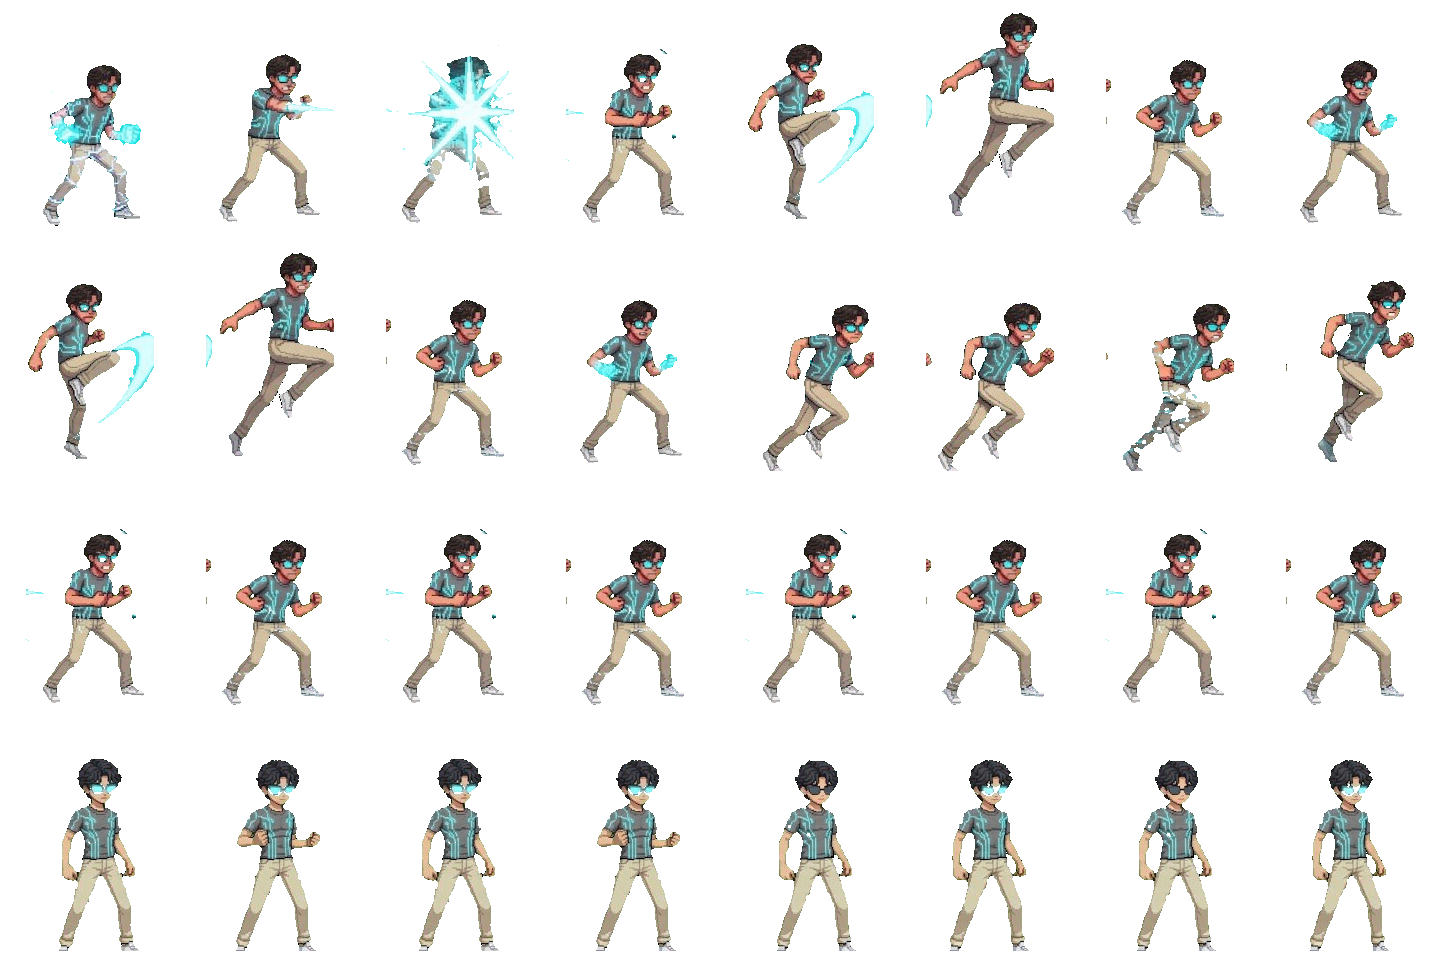
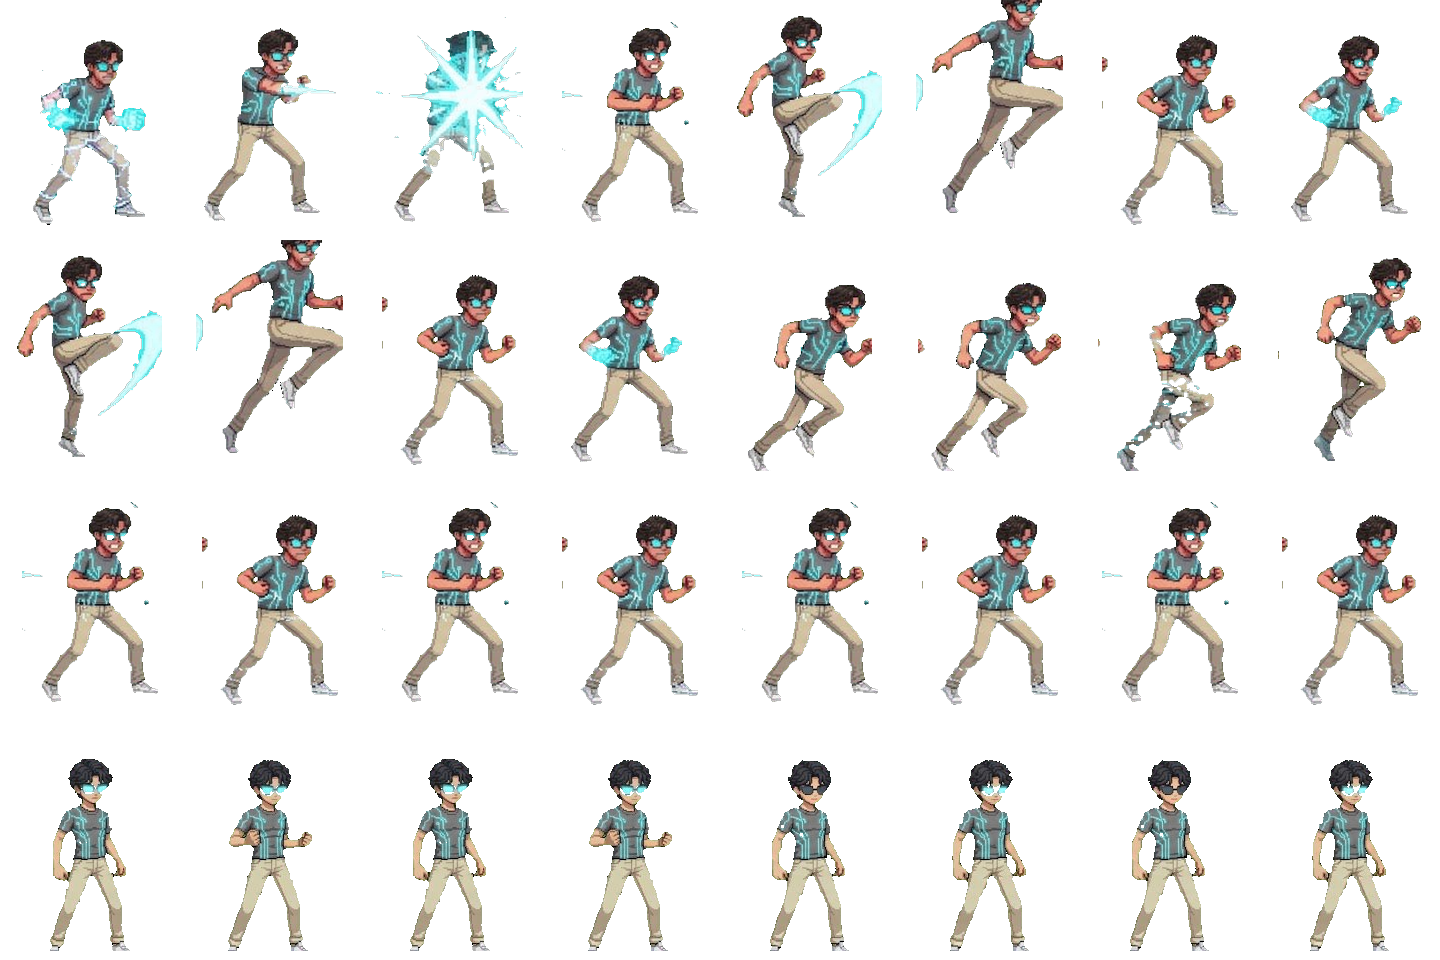
fix(hairi): calibrate consistent character scale across all Level 2 animations, set height slightly taller than Dani/Jihan, and revert Hairi to human version as friend

diff --git a/src/components/GameCanvas.tsx b/src/components/GameCanvas.tsx
@@ -702,6 +702,7 @@ export const GameCanvas: React.FC<GameCanvasProps> = ({
     }
     if (currentDialogueId === "adif_hairi_defeat" || currentDialogueId === "adif_hairi_defeat_2") {
       hairiRef.current.isFriend = true;
+      hairiRef.current.phase = 1; // Kembali ke wujud manusia biasa saat menjadi teman
       hairiRef.current.state = "idle";
     }
     if (!currentDialogueId && pendingBattleRef.current) {
@@ -1040,6 +1041,8 @@ export const GameCanvas: React.FC<GameCanvasProps> = ({
               duel.inCombat = false;
               adifBoss.state = "defeated";
               hairiBoss.state = "defeated";
+              hairiBoss.phase = 1; // Kembali ke wujud manusia biasa setelah kalah
+              hairiBoss.isFriend = true;
               sound.playWin();
               sound.playCoin();
               screenShakeRef.current = 10;
@@ -2537,10 +2540,10 @@ export const GameCanvas: React.FC<GameCanvasProps> = ({
         }
       }
 
-      // Layer 5.63: Hairi (Pemuda Kaos Abu-abu)
+      // Layer 5.63: Hairi (Pemuda Kaos Abu-abu / Super Cyber Hairi)
       if (hairiMasterImg && (currentZone === "perkampungan" || hairiState.isFriend)) {
-        const destW = 104;
-        const destH = 138;
+        const destW = 108;
+        const destH = 144;
         const frameW = 180;
         const frameH = 240;
 
@@ -2548,8 +2551,8 @@ export const GameCanvas: React.FC<GameCanvasProps> = ({
         let hRow = 0;
         let hCol = hairiState.animFrame % 8;
 
-        if (hairiState.phase === 2) {
-          // LEVEL 2: SUPER HAIRI OVERCLOCK SPRITESHEET
+        if (hairiState.phase === 2 && !hairiState.isFriend) {
+          // LEVEL 2: SUPER HAIRI OVERCLOCK SPRITESHEET (Hanya saat bertarung fase 2)
           if (hairiState.state === "defeated") {
             activeSheet = hairiSuperCombatImg || hairiSuperMasterImg || hairiCombatImg || hairiMasterImg;
             hRow = 3;

diff --git a/src/lib/storyData.ts b/src/lib/storyData.ts
@@ -299,9 +299,9 @@ export const DIALOGUES: Record<string, DialogueLine> = {
   adif_hairi_defeat: {
     id: "adif_hairi_defeat",
     speaker: "hairi",
-    speakerName: "SUPER HAIRI • Sistem Overheat",
-    portrait: "/hairi_super_portrait.png",
-    text: "Bzzzt... Sistem sirkuit mengalami pendinginan... Kalian berdua luar biasa hebat bisa menembus pertahanan Level 2 Super Mode-ku. Emosiku sudah padam dan pikiranku kembali jernih.",
+    speakerName: "Hairi • Kembali ke Wujud Manusia",
+    portrait: "/hairi_portrait.png",
+    text: "Huff... hahh... Sirkuit dayaku padam dan kacamata visorku sudah kusimpan. Aku kembali menjadi manusia biasa berkaos abu-abu. Kalian berdua luar biasa hebat bisa menembus pertahanan Level 2 Super Mode-ku! Emosiku sudah padam dan pikiranku kembali jernih. Sekarang izinkan aku bergabung mendampingi kalian sebagai sahabat sejati!",
     emotion: "thoughtful",
     nextId: "adif_hairi_defeat_2",
   },
@@ -310,7 +310,7 @@ export const DIALOGUES: Record<string, DialogueLine> = {
     speaker: "adif",
     speakerName: "Adif • Sang Koboi Menara",
     portrait: "/adif_portrait.png",
-    text: "Hahaha mantap sekali! Mulai detik ini Hairi resmi bergabung sebagai rekan bertarung kalian dengan kekuatan supernya! Kita semua sekarang sahabat sejati!",
+    text: "Hahaha mantap sekali! Mulai detik ini Hairi resmi bergabung sebagai rekan bertarung dan sahabat setia kalian dalam wujud manusianya! Mari kita jaga ketenteraman Pantai Losari bersama-sama!",
     emotion: "happy",
   },
 };
